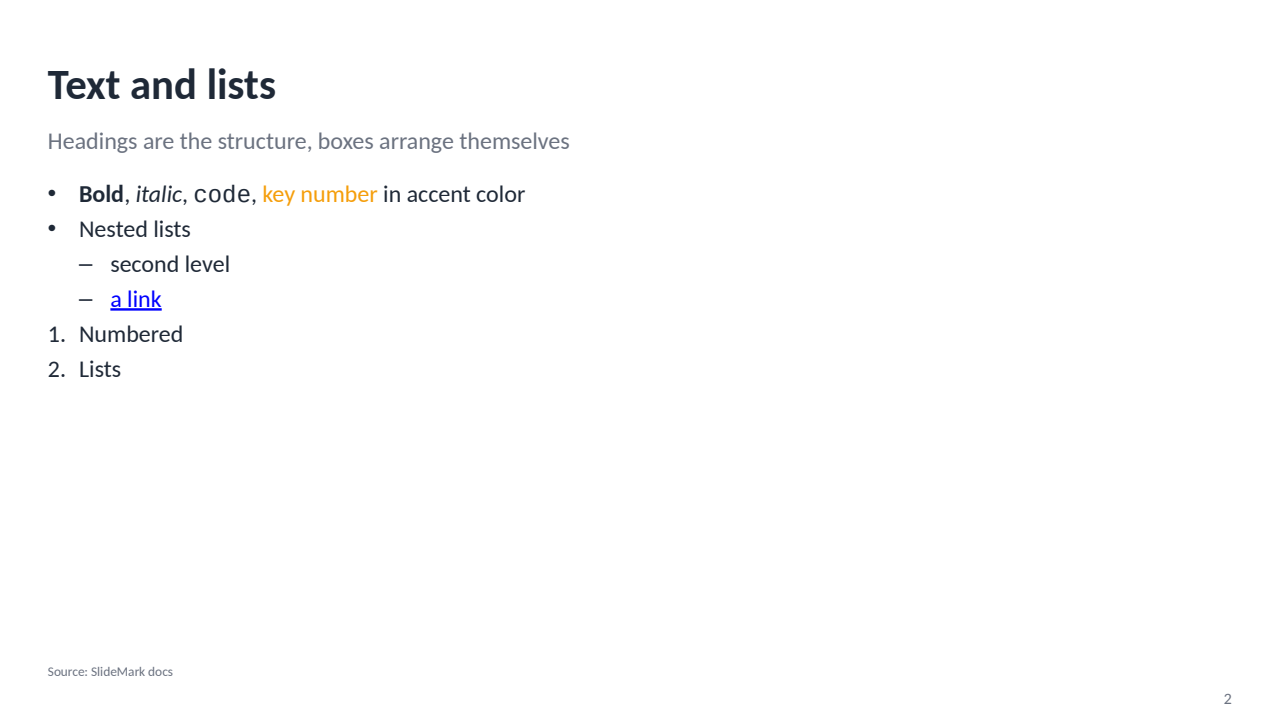
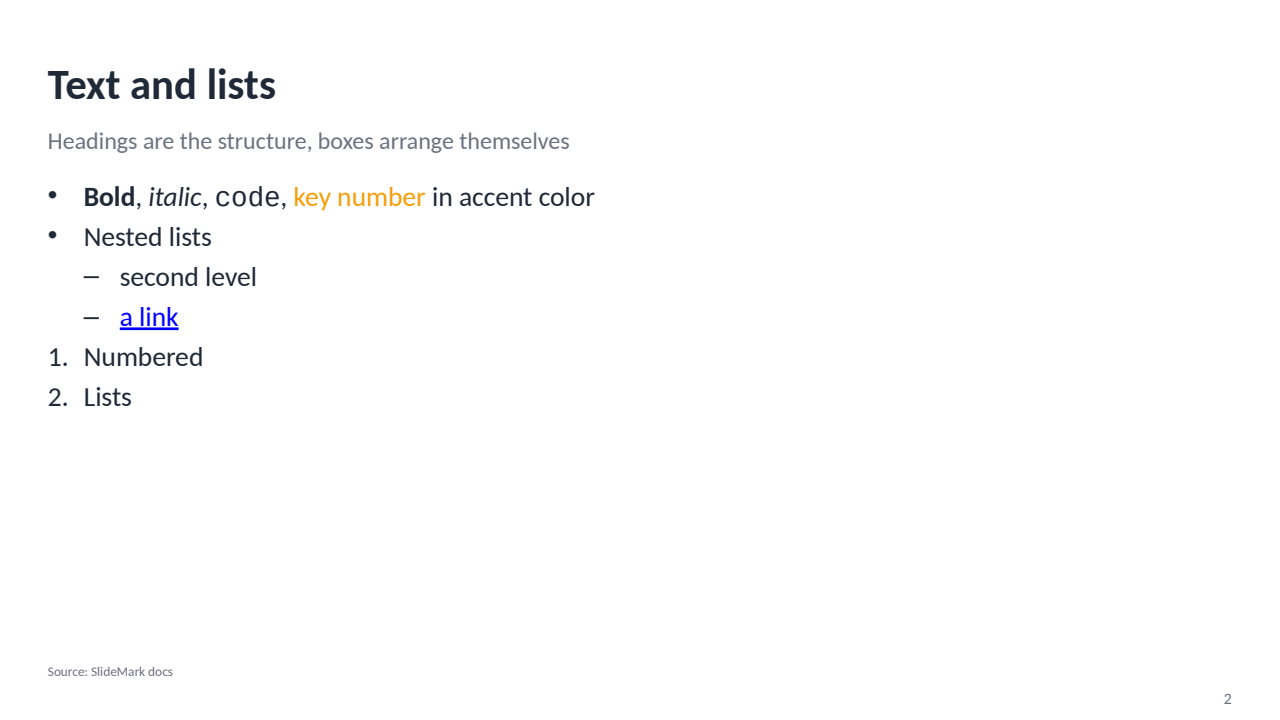
layout: wide flowcharts take full width, branch edges avoid nodes, text/code stacks hug; text-only growth; bench/review_answers.py

Changed region(s): [[0.0312, 0.2444, 0.4688, 0.5806]]

diff --git a/src/slidemark/layout/engine.py b/src/slidemark/layout/engine.py
@@ -130,6 +130,7 @@ class _Ctx:
     tight: float = 1.0  # gap / padding factor (dense slides)
     grow: float = 1.0  # body text growth inside boxes (sparse grids), shared by all sibling boxes
     depth: int = 0  # 0 = slide level, > 0 inside a box
+    text_only: bool = False  # the slide body is plain text only: its body text grows like box text
     head_grow: bool = False  # very sparse boxes: box headings grow with ``grow`` (up to ``GROW_HEAD``)
     grew: bool = False  # set when ``grow`` actually scaled some text
     fill: float | None = None  # natural content height / grid height of the slide-level grid, if known
@@ -372,7 +373,7 @@ def _fit(ctx: _Ctx, need_fn, avail: int, base_size: float) -> float:
 
 def _grown(ctx: _Ctx, el, eff: float) -> float:
     """Autofit scale ``eff`` times the sparse-grid growth for body text inside boxes."""
-    if ctx.grow > 1.0 and ctx.depth > 0 and ctx.scale >= 1.0 and isinstance(el, Text):
+    if ctx.grow > 1.0 and (ctx.depth > 0 or ctx.text_only) and ctx.scale >= 1.0 and isinstance(el, Text):
         if el.role == "body" and "callout" not in el.classes:
             ctx.grew = True
             return eff * ctx.grow
@@ -1074,6 +1075,8 @@ def _row_heights(
     nat: list[int | None] = [0] * nr
     kinds: list[set[str]] = [set() for _ in range(nr)]
     covered = [False] * nr
+    onecol = len(gs.cols) == 1 and nr >= 2 and not tree
+    rowtext = [True] * nr  # rows holding only text / code blocks (a vertical stack)
     spans: list[tuple[int, int, int | None]] = []  # blocks spanning several rows: (first, last, natural)
     stacked: set[int] = set()  # rows beside a flexible block that spans them (a column of stacked boxes)
     for k, ((_i, blk), r) in enumerate(zip(flow, cells, strict=True)):
@@ -1089,6 +1092,8 @@ def _row_heights(
             continue
         covered[r0] = True
         kinds[r0].add(kind)
+        if not isinstance(blk, (Text, Code)):
+            rowtext[r0] = False
         nat[r0] = None if n is None or nat[r0] is None else max(nat[r0] or 0, n)
     caps: list[int | None] = []
     for row in range(nr):
@@ -1101,6 +1106,9 @@ def _row_heights(
             caps.append(n)
         elif tree:  # org-tree levels hug their boxes (+ modest slack): the connectors fill the gaps
             caps.append(round(n * (TREE_SLACK_ROOMY if ctx.roomy else TREE_SLACK)))
+        elif onecol and rowtext[row]:  # a stack of text / code: each row is its natural height, no gap
+            caps.append(n)
+            kinds[row] = {"stack"}
         else:
             lone = nr == 1 and not has_tail and ctx.dense_k < 1.0
             floor = ROW_MIN_TAIL if has_tail else (ROW_MIN_DENSE if lone else ROW_MIN)
@@ -1204,7 +1212,12 @@ def _place_blocks(
         if swapped:
             flow = [flow[1], flow[0]]
         wide = any(isinstance(b, Code) and max(map(len, b.text.split("\n")), default=0) > 45 for _, b in flow)
-        gs = auto_spec(len(flow), text_visual=text_visual, short=short, wide_visual=wide)
+        if len(flow) > 1 and any(_wide_diagram(b) for _, b in flow):
+            # a wide flowchart takes the full width; what follows it sits right below (the tail)
+            first = _wide_diagram(flow[0][1])
+            gs = GridSpec([1.0], [1.0] if first else [1.0] * len(flow), capacity=1 if first else None)
+        else:
+            gs = auto_spec(len(flow), text_visual=text_visual, short=short, wide_visual=wide)
         if searchable and not ctx.arrange:
             ctx.alts = _search_tokens(flow, gs, classes, bool(tables), swapped)
     elif searchable and not ctx.arrange:
@@ -1343,6 +1356,17 @@ def _hug_beside_visual(ctx: _Ctx, gs, flow: list, cells: list[Rect], inherit: St
 
 def _is_diagram(b) -> bool:
     return isinstance(b, Container) and "diagram" in b.classes and b.title is None
+
+
+def _wide_diagram(b) -> bool:
+    """A flowchart whose grid is much wider than tall (>= 4 columns, or a single row of 3+): full width."""
+    if not _is_diagram(b) or not b.grid:
+        return False
+    gs = parse_spec(b.grid, len(b.children), b.classes)
+    if gs is None or gs.errors or not gs.cols or not gs.rows:
+        return False
+    nc, nr = len(gs.cols), len(gs.rows)
+    return nc >= 4 or (nc >= 3 and nc / nr >= 2.5)
 
 
 def _hug_tail(ctx: _Ctx, start: int, area: Rect, gap: int) -> None:
@@ -1866,6 +1890,9 @@ def _layout(slide: Slide, deck: Deck, theme: Theme, index: int) -> list[Placed]:
 
         body_pt = theme.sizes.get("body", 18) * ctx.dense_k
         very = body_pt >= GROW_VERY_SPARSE_PT and _very_sparse(elements)
+        text_only = kind != "center" and all(
+            isinstance(e, Text) and e.role == "body" and "callout" not in e.classes for e in elements
+        )
 
         def solve(arrange: str | None = None) -> _Ctx:
             def run(area: Rect, **kw) -> _Ctx:
@@ -1880,6 +1907,7 @@ def _layout(slide: Slide, deck: Deck, theme: Theme, index: int) -> list[Placed]:
                     tight=ctx.tight,
                     head_grow=very,
                     arrange=arrange,
+                    text_only=text_only,
                     **kw,
                 )
                 _place_blocks(

diff --git a/bench/review_answers.py b/bench/review_answers.py
@@ -1,0 +1,66 @@
+"""Run the design critic over the eval answers and list the decks that score below a threshold.
+
+Usage: python bench/review_answers.py [--answers DIR] [--below 95] [--verbose]
+
+Prints the mean review score, the decks under the threshold with their ``design-*`` / layout warnings and a
+tally of the rules that cost the most points. Layout work uses it to find the most common layout causes.
+"""
+
+from __future__ import annotations
+
+import argparse
+import collections
+import statistics
+import sys
+from pathlib import Path
+
+from slidemark.critique import critique, review_score
+from slidemark.layout import layout_slide
+from slidemark.lint import lint
+from slidemark.parser import parse
+from slidemark.template import resolve_theme
+
+ROOT = Path(__file__).resolve().parent.parent
+
+
+def review(path: Path) -> tuple[int, list]:
+    deck = parse(path.read_text(encoding="utf-8"))
+    diags = list(deck.diagnostics)
+    deck.attrs.setdefault("base_dir", str(path.resolve().parent))
+    theme, tdiags = resolve_theme(deck.theme, deck.attrs["base_dir"])
+    diags.extend(tdiags)
+    placed = [layout_slide(s, deck, theme, i) for i, s in enumerate(deck.slides)]
+    seen = {(d.rule, d.slide) for d in diags}
+    diags.extend(d for d in lint(deck, placed, theme) if (d.rule, d.slide) not in seen)
+    diags.extend(critique(deck, placed, theme))
+    return review_score(diags, len(deck.slides)), diags
+
+
+def main() -> int:
+    ap = argparse.ArgumentParser()
+    ap.add_argument("--answers", default=str(ROOT / "bench/answers/run-5-sonnet"))
+    ap.add_argument("--below", type=int, default=95)
+    ap.add_argument("--verbose", action="store_true")
+    args = ap.parse_args()
+    scores: list[int] = []
+    tally: collections.Counter[str] = collections.Counter()
+    for md in sorted(Path(args.answers).glob("*.md")):
+        score, diags = review(md)
+        scores.append(score)
+        warn = [d for d in diags if d.level != "info" or args.verbose]
+        for d in warn:
+            tally[d.rule] += 1
+        if score < args.below:
+            print(f"{md.name}: {score}")
+            for d in warn:
+                print(f"    {d}")
+    if not scores:
+        print("no answers found", file=sys.stderr)
+        return 1
+    print(f"decks: {len(scores)}  mean review score: {statistics.fmean(scores):.2f}  min: {min(scores)}")
+    print("rules:", ", ".join(f"{r} x{n}" for r, n in tally.most_common()))
+    return 0
+
+
+if __name__ == "__main__":
+    raise SystemExit(main())

diff --git a/src/slidemark/layout/diagram.py b/src/slidemark/layout/diagram.py
@@ -483,11 +483,20 @@ def _side_route(a: Rect, b: Rect, everyone: list[Rect], side_k: int, step: int) 
     """Out of the right side of ``a``, around the nodes, into the right side of ``b`` (route ``h``)."""
     ya, yb = _cy(a), _cy(b)
     lo, hi = min(ya, yb), max(ya, yb)
-    ext = max(r.right for r in everyone if r.y <= hi and r.bottom >= lo)
+    near = [r for r in everyone if r.y <= hi and r.bottom >= lo]
+    others = [r for r in everyone if r is not a and r is not b]
+    ext = max(r.right for r in near)
     bend = ext + step * (side_k + 1)
     p0 = (a.right, ya)
     p1 = (b.right, yb)
-    return _Route([p0, (bend, ya), (bend, yb), p1], "h", False, 0.5, p0, p1, side=True)
+    right = _Route([p0, (bend, ya), (bend, yb), p1], "h", False, 0.5, p0, p1, side=True)
+    if not _poly_hits(right.pts, others):
+        return right
+    # the right side is blocked (a node of the target's rank sits beside it): go around the left side
+    bend = min(r.x for r in near) - step * (side_k + 1)
+    p0, p1 = (a.x, ya), (b.x, yb)
+    left = _Route([p0, (bend, ya), (bend, yb), p1], "h", False, 0.5, p0, p1, side=True)
+    return left if not _poly_hits(left.pts, others) else right
 
 
 def _label_rect(
@@ -510,7 +519,7 @@ def _label_rect(
     order = order + [s for s in segs if s not in order]
     toward = 1 if rt.p1[0] >= rt.p0[0] else -1
     if rt.side:
-        toward = 1  # outer side of the loop
+        toward = 1 if rt.pts[1][0] >= rt.p0[0] else -1  # outer side of the loop
     cands: list[Rect] = []
     for u, v in order:
         fracs = (0.8, 0.6, 0.4) if rt.elbow and (u, v) == order[0] else (0.5, 0.75, 0.25)

diff --git a/tests/test_layout_diagram.py b/tests/test_layout_diagram.py
@@ -242,3 +242,27 @@ def test_chevron_label_does_not_leave_orphans():
         wide = measure.paragraphs_height(p.element.paragraphs, width, p.style, p.font_scale)
         narrow = measure.paragraphs_height(p.element.paragraphs, round(width * 0.88), p.style, p.font_scale)
         assert narrow <= wide * 1.001  # still the same number of lines in a 12% narrower text area
+
+
+DEPLOY = """# Deployment pipeline
+```mermaid
+graph LR
+A[Commit] --> B[Build]
+B --> C[Test]
+C -->|pass| D[Deploy to staging]
+C -->|fail| F[Rollback]
+D --> E{Approve?}
+E -->|yes| G[Deploy to production]
+E -->|no| F
+```
+Every change passes tests and an approval gate before production.
+"""
+
+
+def test_wide_diagram_takes_full_width_with_text_below():
+    deck, theme, placed = check_clean(DEPLOY)
+    W, _H = slide_size(deck.size)
+    ns = nodes(placed)
+    assert max(n.x + n.w for n in ns) - min(n.x for n in ns) > 0.8 * W  # not squeezed into half the width
+    para = next(p for p in placed if isinstance(p.element, Text) and p.element.role == "body")
+    assert para.y >= max(n.y + n.h for n in ns)  # the paragraph sits below the diagram

diff --git a/tests/test_layout_policies.py b/tests/test_layout_policies.py
@@ -310,3 +310,18 @@ def test_normal_boxes_of_a_large_theme_keep_the_small_growth():
     body, head, _ = _body_scales(s)
     assert max(body) <= 1.15 + 1e-9
     assert head == {1.0}
+
+
+def test_text_above_code_has_no_gap():
+    from slidemark.ir import Code
+
+    s = Slide(
+        title=T("Title", "title"),
+        grid="b/a",
+        elements=[Code(text="x = 1\ny = 2", lang="python"), bullets("one", "two")],
+    )
+    placed, _deck = lay(s, "midnight")
+    text = of(placed, Text)
+    body = next(p for p in text if p.element.role == "body")
+    code = of(placed, Code)[0]
+    assert 0 <= code.y - (body.y + body.h) <= 0.35 * EMU_PER_INCH  # the code follows the text directly
